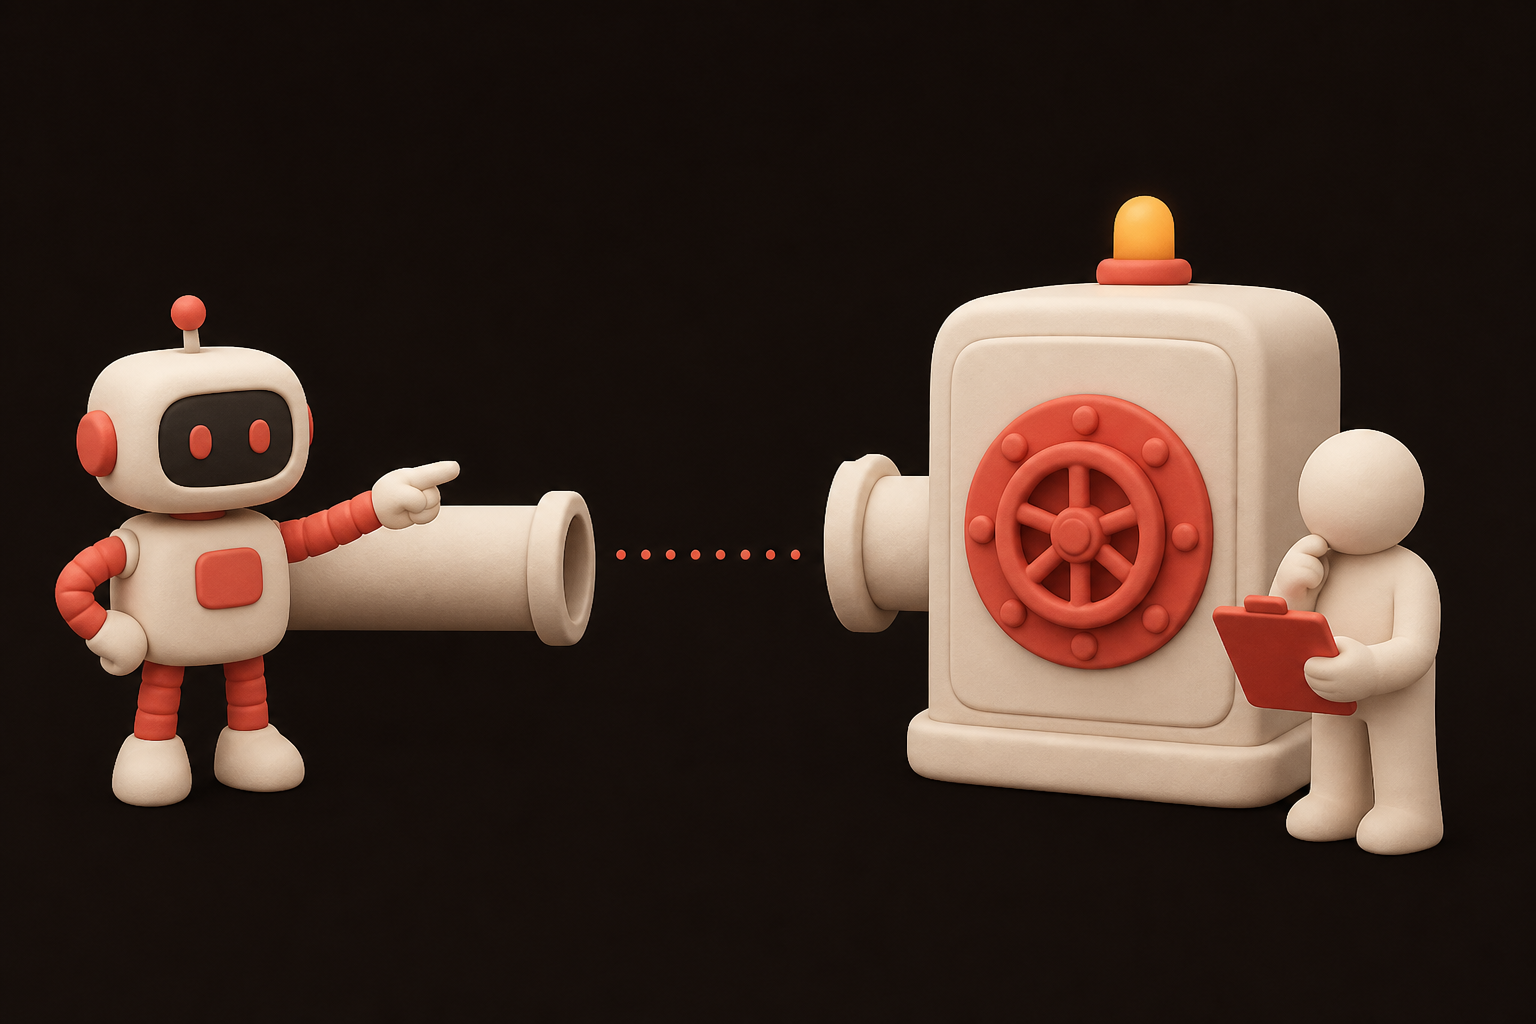
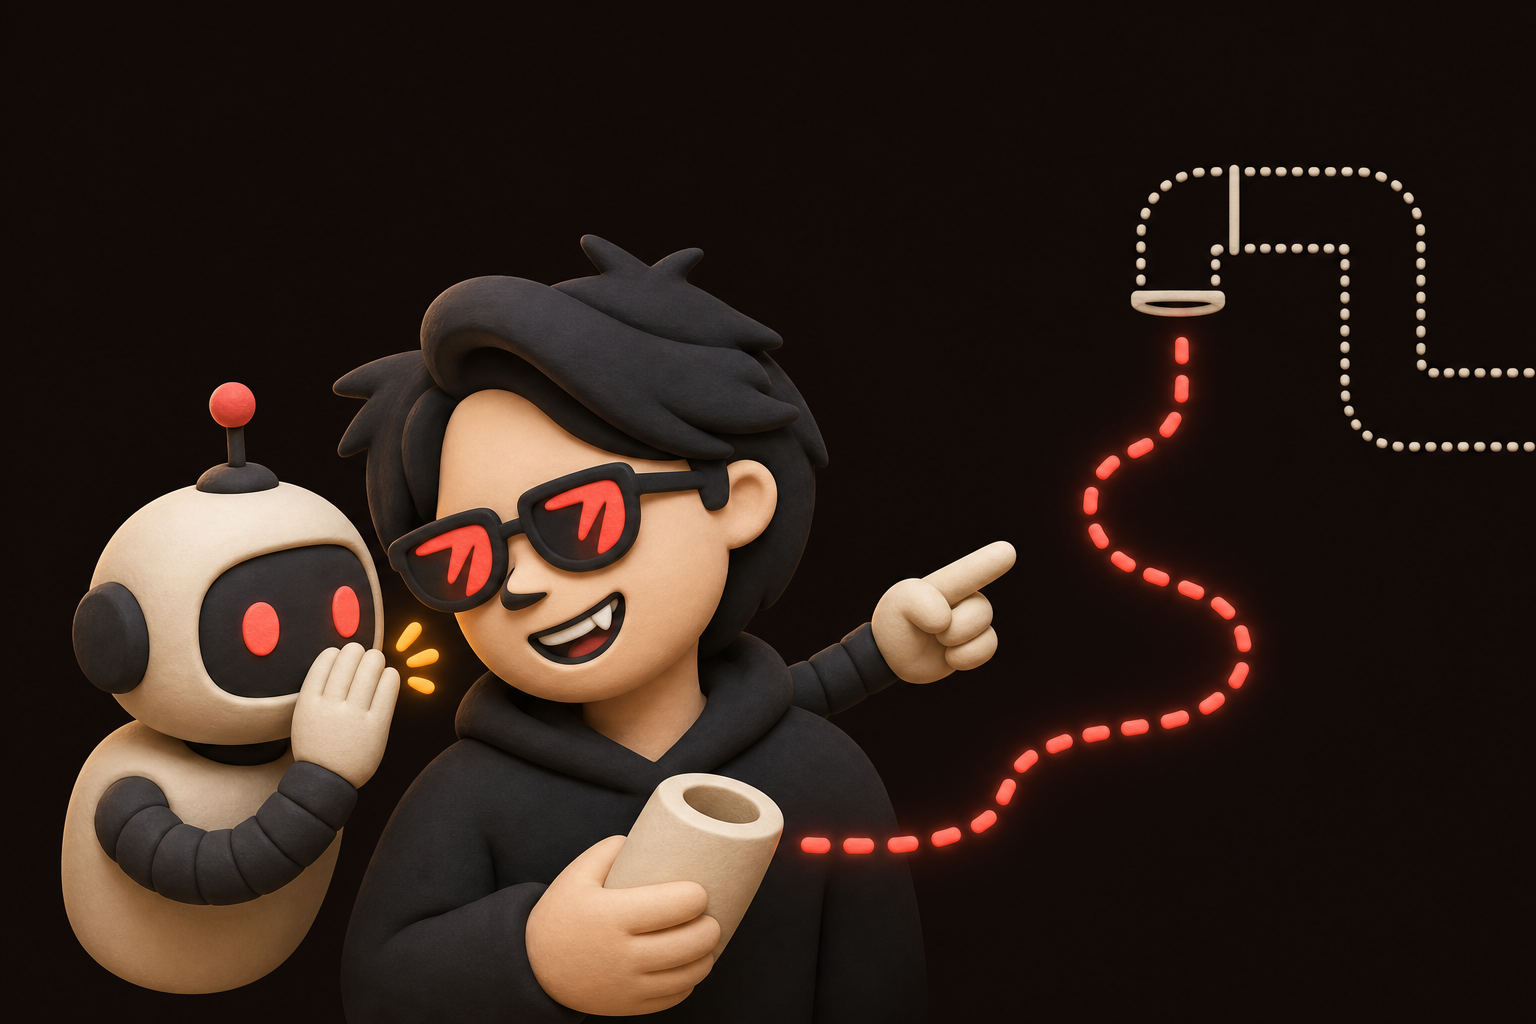
blog: update agent lies title and cover

diff --git a/src/content/posts/agent-lies-are-a-plumbing-problem.md b/src/content/posts/agent-lies-are-a-plumbing-problem.md
@@ -1,5 +1,5 @@
 ---
-title: AI 직원은 왜 구라를 치나 — 말로 시킬 수 없는 것과 배관으로 시킬 것
+title: AI 직원은 왜 거짓말을 하나 — 말로 시킬 수 없는 것과 배관으로 시킬 것
 description: 상주 AI 비서가 없는 배선을 지어내던 하루를 배관 관점으로 다시 본다. 말로 시킬 일과 구조로 고정해야 할 일을 가르는 기록이다.
 track: log
 created: 2026-07-26T11:01
